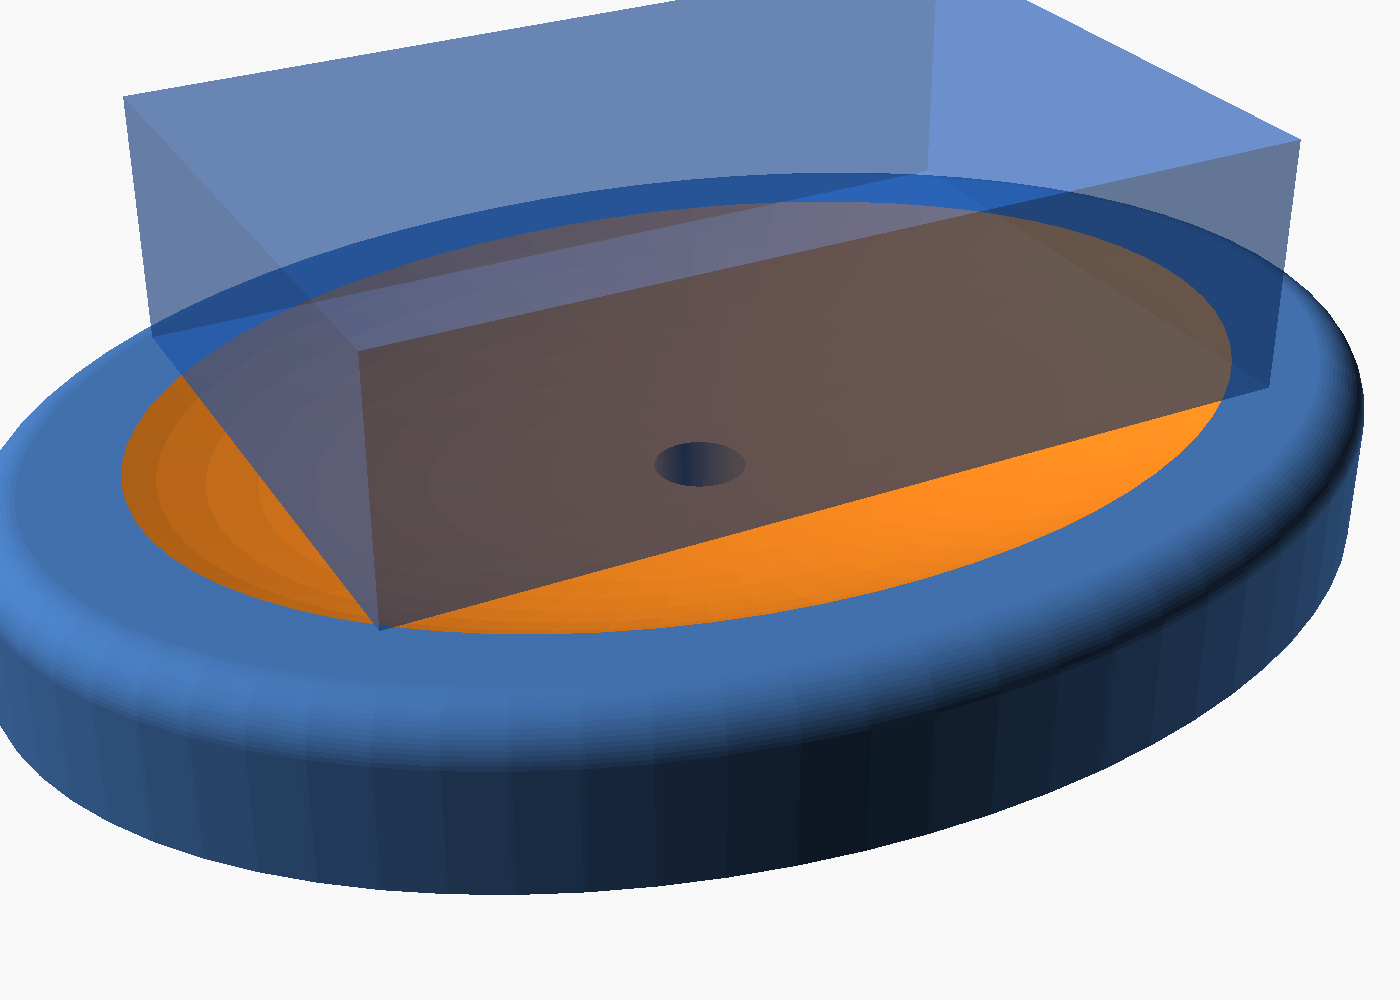
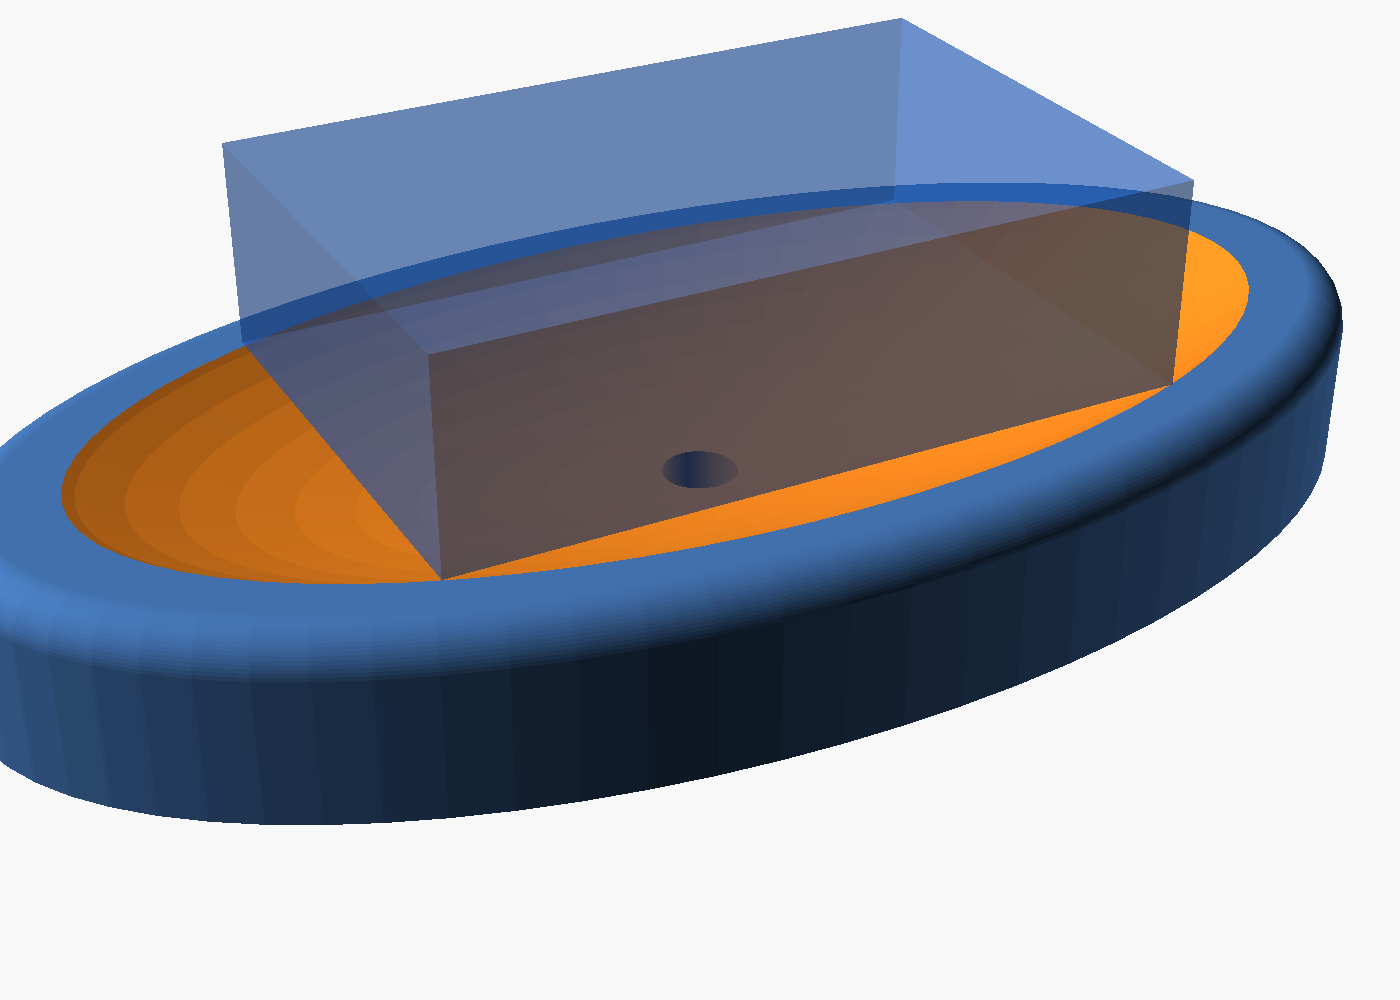
Gör oval skål längre, smalare och djupare (mer aggressivt ovaldjup i längd-led)
Justerade ellipsoidparametrar: A 72->92 (längre), B 52->46 (smalare/mer
avlång), C 24->34 + rim 22->27 (djupare, mer dramatisk skopa i längd-led).
Fotavtryck nu ~175x93 mm (~1.9:1), skåldjup ~19 mm. Tvålen vilar fortf. på
4 hörn, svävar fritt, självcentrerar. Uppdaterade scad, rita-script,
render och ritning.

diff --git a/tvalkopp/rita_tvalkopp_ovalskal.py b/tvalkopp/rita_tvalkopp_ovalskal.py
@@ -14,7 +14,7 @@ from matplotlib.gridspec import GridSpec
 
 # parametrar (= tvalkopp_ovalskal.scad)
 L, W, T = 90.0, 60.0, 25.0
-A, B, C, fmin, H, border, drain_d = 72.0, 52.0, 24.0, 8.0, 22.0, 5.0, 9.0
+A, B, C, fmin, H, border, drain_d = 92.0, 46.0, 34.0, 8.0, 27.0, 5.0, 9.0
 half = L/2
 zc = fmin + C
 
